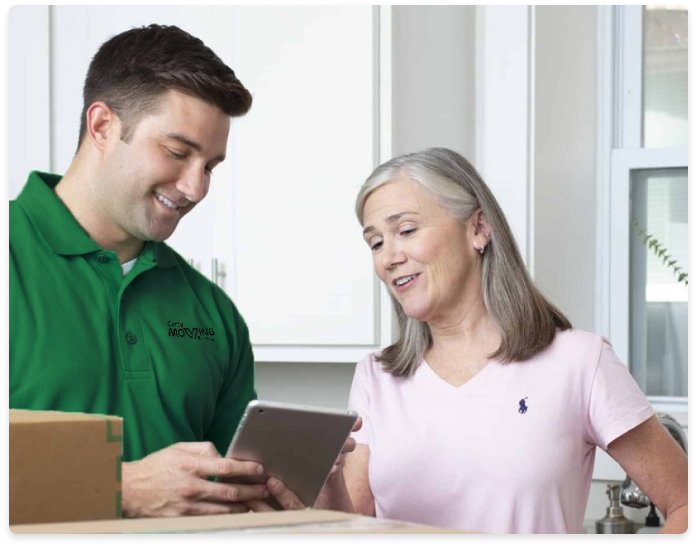
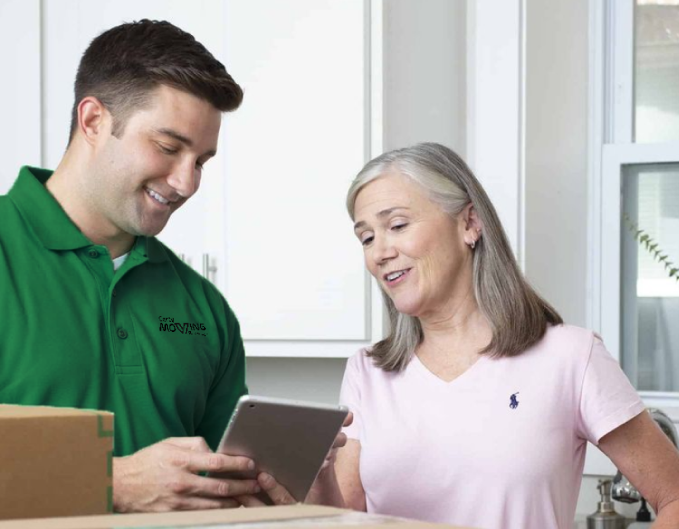
sectiunea 3 final

diff --git a/src/app/shared/Section3.tsx b/src/app/shared/Section3.tsx
@@ -5,26 +5,45 @@ import Link from 'next/link'
 export default async function Section2(){
   return(
     <section className='section3 w-screen h-fit min-h-screen skew-y-[-14deg] md:skew-y-[-7deg] translate-y-40'>
-      <div className='bg-mygreen w-[14vw] h-8 absolute -top-8 left-0'></div>
-      <div className='bg-mygreen w-[14vw] h-8 absolute -bottom-8 right-0'></div>
-      <div className='w-screen relative h-fit skew-y-[14deg] md:skew-y-[7deg] translate-y-40 px-[10vw]'>
+      <div className='bg-mygreen w-[40vw] md:w-[14vw] h-4 md:h-8 absolute -top-4 md:-top-8 left-0'></div>
+      <div className='bg-mygreen w-[40vw] md:w-[14vw] h-4 md:h-8 absolute -bottom-4 md:-bottom-8 right-0'></div>
+      <div className='w-screen relative h-fit skew-y-[14deg] md:skew-y-[7deg] translate-y-40 px-4 md:px-[10vw]'>
         <div className='flex gap-[7.5vw] relative'>
-          <div className='flex flex-col w-[calc(50%-3.75vw)]'>
+          <div className='flex flex-col w-full lg:w-[calc(50%-3.75vw)]'>
             <p className='text-mygreen font-bold font-Hind text-2xl'>About Us</p>
-            <h1 className='text-mywhite font-bold font-Montserrat text-[4rem] mt-4 mb-12'>Why Carty Movers Is Your Best Choice</h1>
-            <p className='text-mywhite font-Hind font-medium text-2xl mb-16'>At Carty Moving Company, we don’t just move boxes; we move lives. Our mission is to provide moving services that cater to your needs, ensuring a smooth transition to your new location. Trust us to handle your move with care, efficiency, and professionalism.</p>
-            <Link href="#" className='quote w-fit lg:flex hidden gap-2 px-4 py-2 xl:py-[15px] xl:px-7 bg-mygreen mr-4 hover:bg-mywhite border-mygreen border-2 rounded-md font-Hind text-mywhite hover:text-mygreen font-bold transition-all'>
+            <h1 className='text-mywhite font-bold font-Montserrat text-[2rem] md:text-5xl 3xl:text-[4rem] mt-4 mb-6 md:mb-12'>Why Carty Movers Is Your Best Choice</h1>
+            <p className='text-mywhite font-Hind font-medium text-sm md:text-2xl mb-8 md:mb-16'>At Carty Moving Company, we don’t just move boxes; we move lives. Our mission is to provide moving services that cater to your needs, ensuring a smooth transition to your new location. Trust us to handle your move with care, efficiency, and professionalism.</p>
+            <Link href="#" className='quote w-fit flex gap-2 px-4 text-xs items-center md:text-base py-2 xl:py-[15px] xl:px-7 bg-mygreen mr-4 md:hover:bg-mywhite border-mygreen border-2 rounded-md font-Hind text-mywhite md:hover:text-mygreen font-bold transition-all'>
               <svg width="24" height="24" viewBox="0 0 24 24" fill="none" xmlns="http://www.w3.org/2000/svg">
                 <path d="M21.6635 7.93127C21.1376 6.67626 20.3726 5.53554 19.4111 4.57268C18.4525 3.60816 17.3138 2.8413 16.0596 2.31565C14.7748 1.77454 13.3943 1.49718 12.0002 1.50002H11.9533C10.5354 1.50705 9.16427 1.7883 7.87286 2.34143C6.62944 2.87247 5.50139 3.64069 4.55177 4.60315C3.59958 5.56384 2.84335 6.70057 2.32521 7.95002C1.78736 9.24931 1.51482 10.6431 1.52364 12.0492C1.53068 13.6758 1.91974 15.2906 2.6463 16.7344V20.2969C2.6463 20.8922 3.12911 21.375 3.72208 21.375H7.27989C8.73038 22.107 10.331 22.4921 11.9557 22.5H12.0049C13.4065 22.5 14.7635 22.2281 16.0432 21.6961C17.291 21.1767 18.4255 20.4188 19.383 19.4649C20.3486 18.5063 21.108 17.386 21.6401 16.1367C22.1908 14.843 22.4721 13.4672 22.4791 12.0469C22.4838 10.6196 22.2072 9.2344 21.6635 7.93127ZM7.32208 13.125C6.70333 13.125 6.19943 12.6211 6.19943 12C6.19943 11.3789 6.70333 10.875 7.32208 10.875C7.94083 10.875 8.44474 11.3789 8.44474 12C8.44474 12.6211 7.94318 13.125 7.32208 13.125ZM12.0002 13.125C11.3815 13.125 10.8776 12.6211 10.8776 12C10.8776 11.3789 11.3815 10.875 12.0002 10.875C12.619 10.875 13.1229 11.3789 13.1229 12C13.1229 12.6211 12.619 13.125 12.0002 13.125ZM16.6783 13.125C16.0596 13.125 15.5557 12.6211 15.5557 12C15.5557 11.3789 16.0596 10.875 16.6783 10.875C17.2971 10.875 17.801 11.3789 17.801 12C17.801 12.6211 17.2971 13.125 16.6783 13.125Z"/>
               </svg>
               GET A QUOTE
             </Link>
           </div>
-          <div className='w-[calc(50%-3.75vw)] h-fit rounded-lg relative'>
-            <Image src="/sec3_1.png" width="679" height="529" alt='Worker help' unoptimized={true} className='w-full h-full object-cover rounded-lg'/>
+          <div className='w-[calc(50%-3.75vw)] relative lg:block hidden'>
+            <Image src="/sec3_1.png" width="679" height="529" alt='Worker help' unoptimized={true} className='w-full h-full object-[40%] lg:block hidden object-cover container rounded-lg'/>
           </div>
         </div>
-        <div></div>
+        <div className='flex flex-col mt-[10vh]'>
+          <h1 className='text-mywhite font-bold font-Montserrat text-[2rem] md:text-4xl xl:text-5xl 3xl:text-[4rem] text-center'>Carty Movers Have Built Its Reputation</h1>
+          <div className='flex flex-col md:flex-row xl:px-[8.5vw] gap-[3.3vw] text-mywhite mb-60 md:mb-80 mt-[6vh]'>
+            <div>
+              <Image src="/sec3_icon2.png" width="64" height="64" alt='friendly solutions' /> 
+              <h3 className='font-bold font-Montserrat text-2xl mt-[2vh] mb-[1.4vh]'>Skilled Team</h3>
+              <p className='font-medium font-Hind text-sm md:text-base xl:text-xl'>Our movers are experienced professionals trained to handle your belongings with care.</p>
+            </div>
+            <div>
+              <Image src="/sec3_icon1.png" width="64" height="64" alt='multiple ways' /> 
+              <h3 className='font-bold font-Montserrat text-2xl mt-[2vh] mb-[1.4vh]'>End-to-End Solutions</h3>
+              <p className='font-medium font-Hind text-sm md:text-base xl:text-xl'>From packing to unpacking, we manage every aspect of your move.</p>
+            </div>
+            <div>
+              <Image src="/sec3_icon3.png" width="64" height="64" alt='Customer-Centric Approach' />
+              <h3 className='font-bold font-Montserrat text-2xl mt-[2vh] mb-[1.4vh]'>Customer-Centric Approach</h3>
+              <p className='font-medium font-Hind text-sm md:text-base xl:text-xl'>Your satisfaction is our top priority; we go above and beyond to meet your expectations.</p>
+            </div>
+          </div>
+        </div>
       </div>
     </section>
   )
